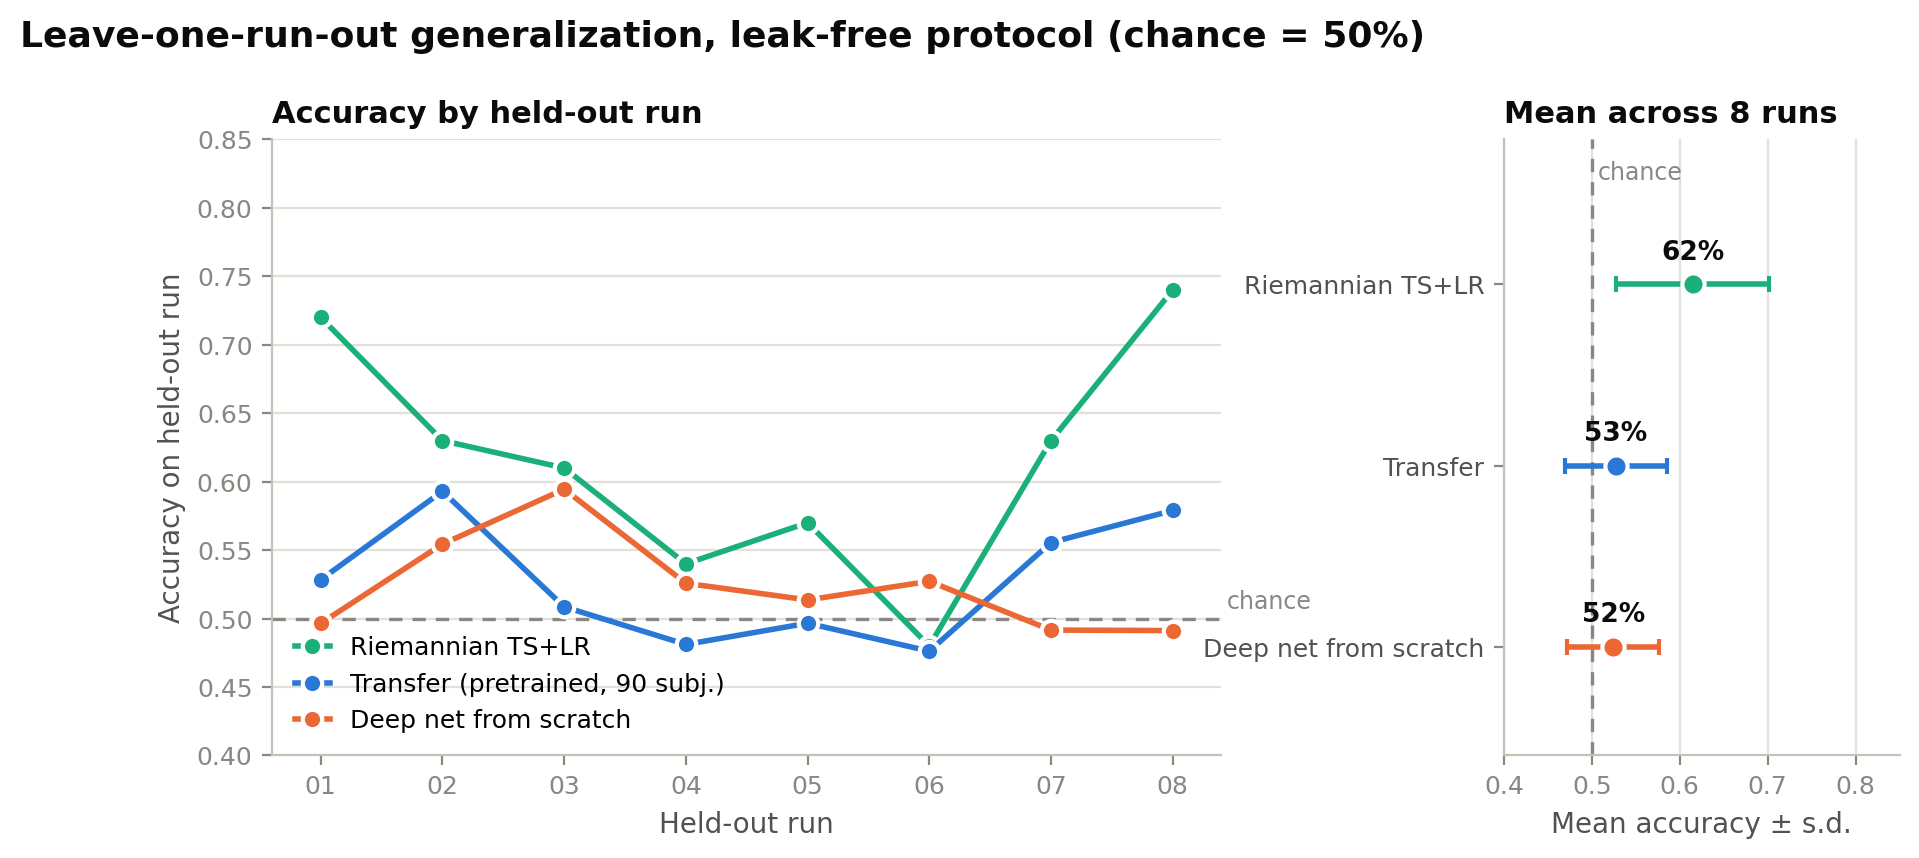
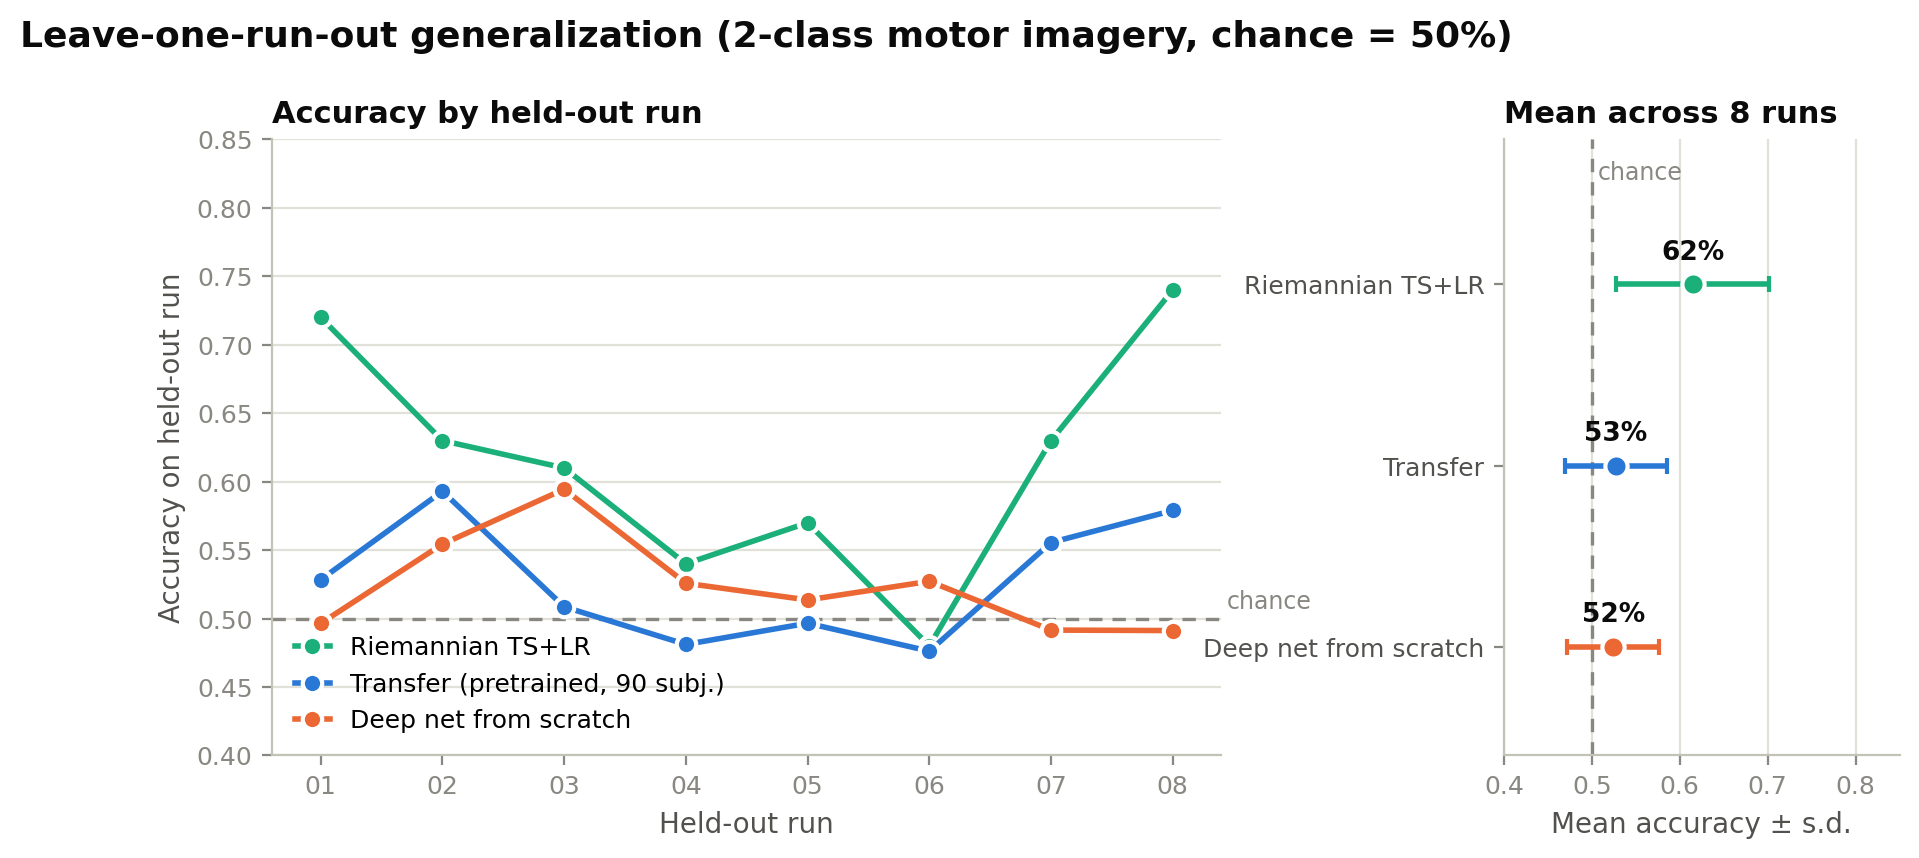
Neutral LORO figure title

Changed region(s): [[0.3689, 0.0, 0.7994, 0.0606]]

diff --git a/scripts/generate_report_figures.py b/scripts/generate_report_figures.py
@@ -137,12 +137,10 @@ def v2_rows(df):
 
 # ---------------------------------------------------------------- figure 1: LORO
 #
-# Leave-one-run-out = the k=7 arm of the leak-free v2 sweep: checkpoint selection
-# uses an inner validation split carved from the training runs, the held-out run
-# is evaluated exactly once, and deep fits average over 3 seeds. The original
-# December leave_one_run_out rows are NOT used: they were inflated by selection
-# on the test run and by a load_model cache bug that leaked test-run data into
-# the "pretrained" starting weights (see README).
+# Leave-one-run-out = the k=7 arm of the v2 sweep: checkpoint selection uses an
+# inner validation split carved from the training runs, the held-out run is
+# evaluated exactly once, and deep fits average over 3 seeds. The original
+# December leave_one_run_out rows are superseded and not used.
 
 def fig_loro(df):
     loro = v2_rows(df)
@@ -189,7 +187,7 @@ def fig_loro(df):
     ax2.set_xlabel("Mean accuracy ± s.d.")
     ax2.set_title("Mean across 8 runs", loc="left")
 
-    fig.suptitle("Leave-one-run-out generalization, leak-free protocol (chance = 50%)",
+    fig.suptitle("Leave-one-run-out generalization (2-class motor imagery, chance = 50%)",
                  x=0.005, y=1.03, ha="left", fontsize=13, fontweight="bold", color=INK)
     save(fig, "loro_generalization.png")
     return summary
